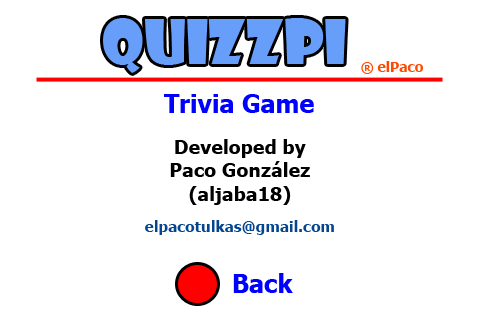
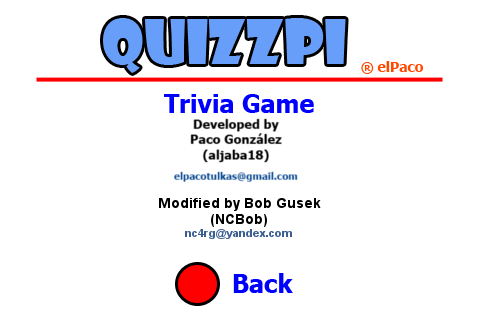
Updating the shutdown command and the title page

Changed region(s): [[0.2812, 0.375, 0.7188, 0.75]]

diff --git a/quizpi.py b/quizpi.py
@@ -820,5 +820,5 @@ while (playing == True):
 		
 # Pórtate bien con el IDLE. Si nos olvidamos de esta línea, el programa se 'colgará'
 # en la salida.
-pygame.quit()
-#os.system("sudo shutdown -h now")
+#pygame.quit()
+os.system("sudo shutdown -h now")
